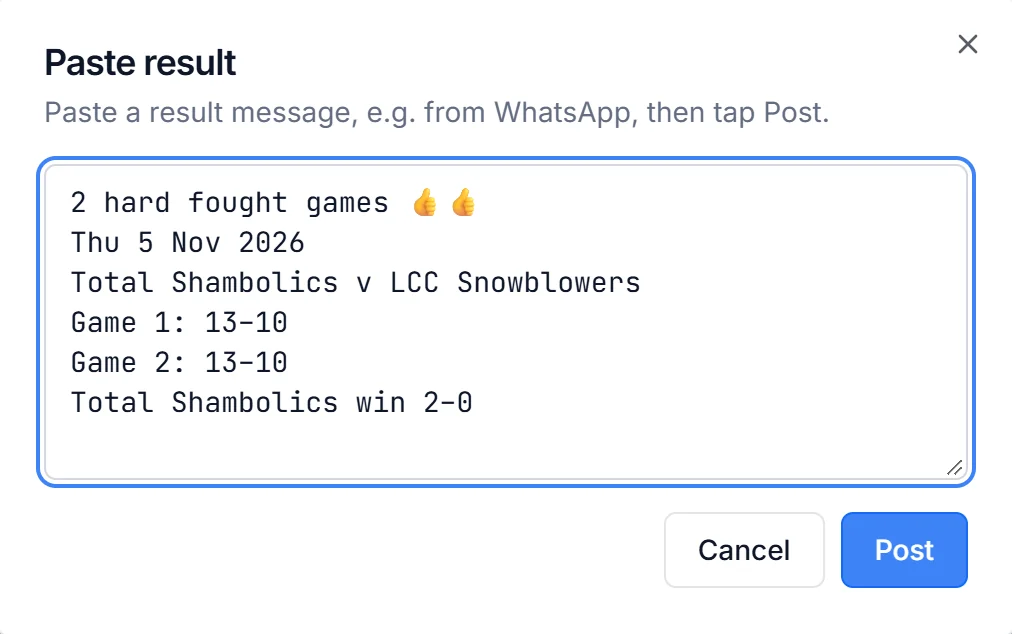
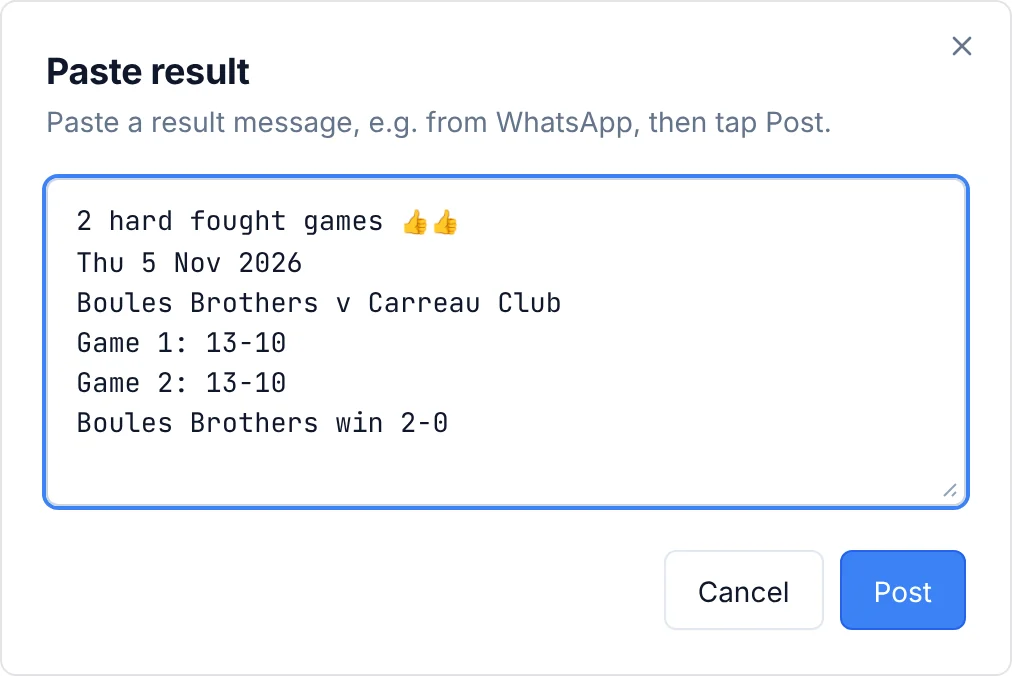
Home page: Paste result image uses sample team names
Claude-Session: https://claude.ai/code/session_01UjsX3abm1ypS3vJyPiQw8s

diff --git a/client/public/home/index.html b/client/public/home/index.html
@@ -173,7 +173,7 @@ Watch the demo</a>
 <p style="margin: 0; font-size: 17px; line-height: 1.6; color: #46545F">Simply copy a result message from WhatsApp or email and paste it in. PTM reads the teams and game scores, and the leaderboard is updated immediately.</p>
 </div>
 <div style="flex: 1 1 420px; min-width: 0; display: flex; justify-content: center">
-<img src="/home/img/paste.webp" alt="Paste result box with a WhatsApp result message for Total Shambolics v LCC Snowblowers" style="width: 100%; max-width: 520px; height: auto; border-radius: 12px; border: 1px solid #DCE3E7; box-shadow: 0 14px 34px rgba(15,76,92,0.12)">
+<img src="/home/img/paste.webp" alt="Paste result box with a WhatsApp result message for Boules Brothers v Carreau Club" style="width: 100%; max-width: 520px; height: auto; border-radius: 12px; border: 1px solid #DCE3E7; box-shadow: 0 14px 34px rgba(15,76,92,0.12)">
 </div>
 </div>
 </div>
